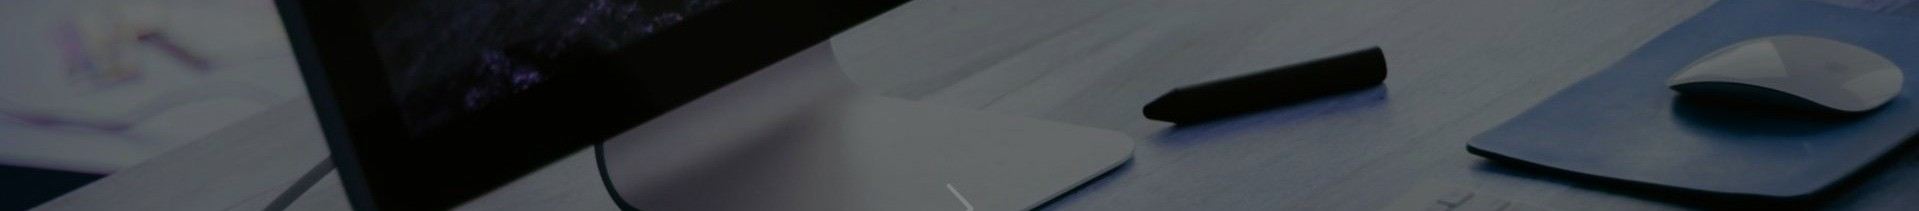
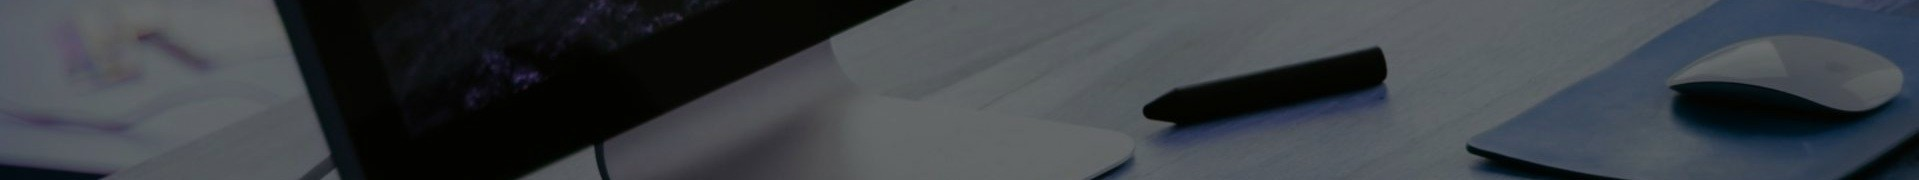
cover page style improvements

diff --git a/public/build/main.css b/public/build/main.css
@@ -1,4 +1,5 @@
 @import url("http://fonts.googleapis.com/css?family=Raleway:300,500,700");
+@import url("http://fonts.googleapis.com/css?family=La+Belle+Aurore");
 @import url("http://weloveiconfonts.com/api/?family=entypo");
 @import url("/bootstrap/css/bootstrap.css");
 [class*="entypo-"]:before {
@@ -17,9 +18,9 @@
   font-size: 2.1em;
   color: white;
   text-decoration: none !important;
-  transition: .3s ease; }
+  transition: .4s ease; }
   .social-links a:hover {
-    color: rgba(255, 255, 255, 0.5); }
+    color: rgba(255, 255, 255, 0.6); }
 
 @keyframes bounce {
   0%, 20%, 50%, 80%, 100% {
@@ -43,8 +44,7 @@ body {
   height: 100%;
   background-color: #333;
   color: #fff;
-  text-align: center;
-  text-shadow: 0 1px 3px rgba(0, 0, 0, 0.5); }
+  text-align: center; }
 
 .trans {
   letter-spacing: -30px !important;
@@ -52,6 +52,9 @@ body {
 
 .site-wrapper {
   display: table;
+  background: url("/img/apple.jpg");
+  background-size: cover;
+  background-position: center;
   width: 100%;
   height: 100%;
   min-height: 100%; }
@@ -65,12 +68,12 @@ body {
   margin-left: auto; }
 
 .cover-heading {
-  font-family: Raleway;
-  text-transform: uppercase;
-  letter-spacing: 5px;
-  font-size: 4em;
+  font-family: "La Belle Aurore", cursive;
+  font-size: 7em;
+  line-height: 60px;
+  padding-bottom: 0 !important;
+  margin: 0 !important;
   font-weight: lighter;
-  color: white;
   transition: all .5s ease-in-out; }
 
 .mastfoot {
@@ -84,12 +87,19 @@ body {
 
 .lead {
   font-family: Raleway;
-  letter-spacing: 3px;
+  letter-spacing: 2px;
   color: white; }
 
 .masthead-brand {
   margin-top: 10px;
-  margin-bottom: 10px; }
+  margin-bottom: 10px;
+  font-family: "La Belle Aurore", cursive;
+  font-size: 2em; }
+
+.masthead-nav {
+  display: block;
+  position: relative;
+  right: 0 !important; }
 
 .masthead-nav > li {
   display: inline-block; }
@@ -98,14 +108,15 @@ body {
   font-family: Raleway;
   text-transform: uppercase;
   letter-spacing: 5px;
-  font-size: 1em;
+  font-size: 1.1em;
   font-weight: lighter;
   color: white;
-  transition: .3s ease;
+  font-weight: normal !important;
+  transition: .4s ease;
   cursor: pointer; }
   .masthead-nav li a:hover {
     background-color: transparent !important;
-    color: rgba(255, 255, 255, 0.5); }
+    color: rgba(255, 255, 255, 0.6); }
   .masthead-nav li a:focus {
     background-color: transparent !important; }
 
@@ -141,17 +152,13 @@ body {
 
 .project-subtitle {
   font-family: Raleway;
-  letter-spacing: 3px;
+  letter-spacing: 2px;
   color: white; }
 
 @media (max-width: 768px) {
   .cover-heading {
-    font-family: Raleway;
-    text-transform: uppercase;
-    letter-spacing: 5px;
-    font-size: 3.1em;
-    font-weight: lighter;
-    color: white; } }
+    font-family: "La Belle Aurore", cursive;
+    font-size: 3.5em; } }
 
 @media (min-height: 750px) {
   #projects {

diff --git a/public/sass/main.scss b/public/sass/main.scss
@@ -1,4 +1,5 @@
 @import url('http://fonts.googleapis.com/css?family=Raleway:300,500,700');
+@import url('http://fonts.googleapis.com/css?family=La+Belle+Aurore');
 @import url('http://weloveiconfonts.com/api/?family=entypo');
 @import url('/bootstrap/css/bootstrap.css');
 //social icons
@@ -18,9 +19,9 @@
   font-size: 2.1em;
   color: white;
   text-decoration: none !important;
-  transition: .3s ease;
+  transition: .4s ease;
   &:hover {
-    color: rgba(255, 255, 255, .5)  
+    color: rgba(255, 255, 255, .6)  
   }
 }
 //arrow
@@ -52,8 +53,7 @@
 }
 @mixin elegant-snippet { 
   font-family: Raleway;
-  letter-spacing: 3px;
-  // font-weight: lighter;
+  letter-spacing: 2px;
   color: white;
 }
 @mixin shade($x, $y, $z, $o) {
@@ -75,7 +75,6 @@ body {
   background-color: #333;
   color: #fff;
   text-align: center;
-  text-shadow: 0 1px 3px rgba(0, 0, 0, 0.5);
 }
 .trans{
   letter-spacing: -30px !important;
@@ -83,6 +82,9 @@ body {
 }
 .site-wrapper {
   display: table;
+  background: url('/img/apple.jpg');
+  background-size: cover;
+  background-position: center;
   width: 100%;
   height: 100%;
   min-height: 100%;
@@ -96,7 +98,13 @@ body {
   margin-left: auto;
 }
 .cover-heading {
-  @include elegant(4em);
+  font-family: "La Belle Aurore", cursive;
+  font-size: 7em;
+  line-height: 60px;
+  padding-bottom: 0 !important;
+  margin: 0 !important;
+  font-weight: lighter;
+  // background-color: red;
   transition: all .5s ease-in-out;
 }
 .mastfoot{
@@ -114,17 +122,25 @@ body {
 .masthead-brand {
   margin-top: 10px;
   margin-bottom: 10px;
+  font-family: "La Belle Aurore", cursive;
+  font-size: 2em;
+}
+.masthead-nav {
+  display: block;
+  position: relative;
+  right: 0 !important;
 }
 .masthead-nav > li {
     display: inline-block;
 }
 .masthead-nav li a {
-  @include elegant(1em);
-  transition: .3s ease;
+  @include elegant(1.1em);
+  font-weight: normal !important;
+  transition: .4s ease;
   cursor: pointer;
   &:hover {
     background-color: transparent !important;
-    color: rgba(255, 255, 255, .5);  
+    color: rgba(255, 255, 255, .6);  
   }
   &:focus {
     background-color: transparent !important;
@@ -160,7 +176,8 @@ body {
 }
 @media (max-width: 768px) {
   .cover-heading {
-    @include elegant(3.1em);
+    font-family: "La Belle Aurore", cursive;
+    font-size: 3.5em;
   } 
 }
 @media (min-height: 750px) {
